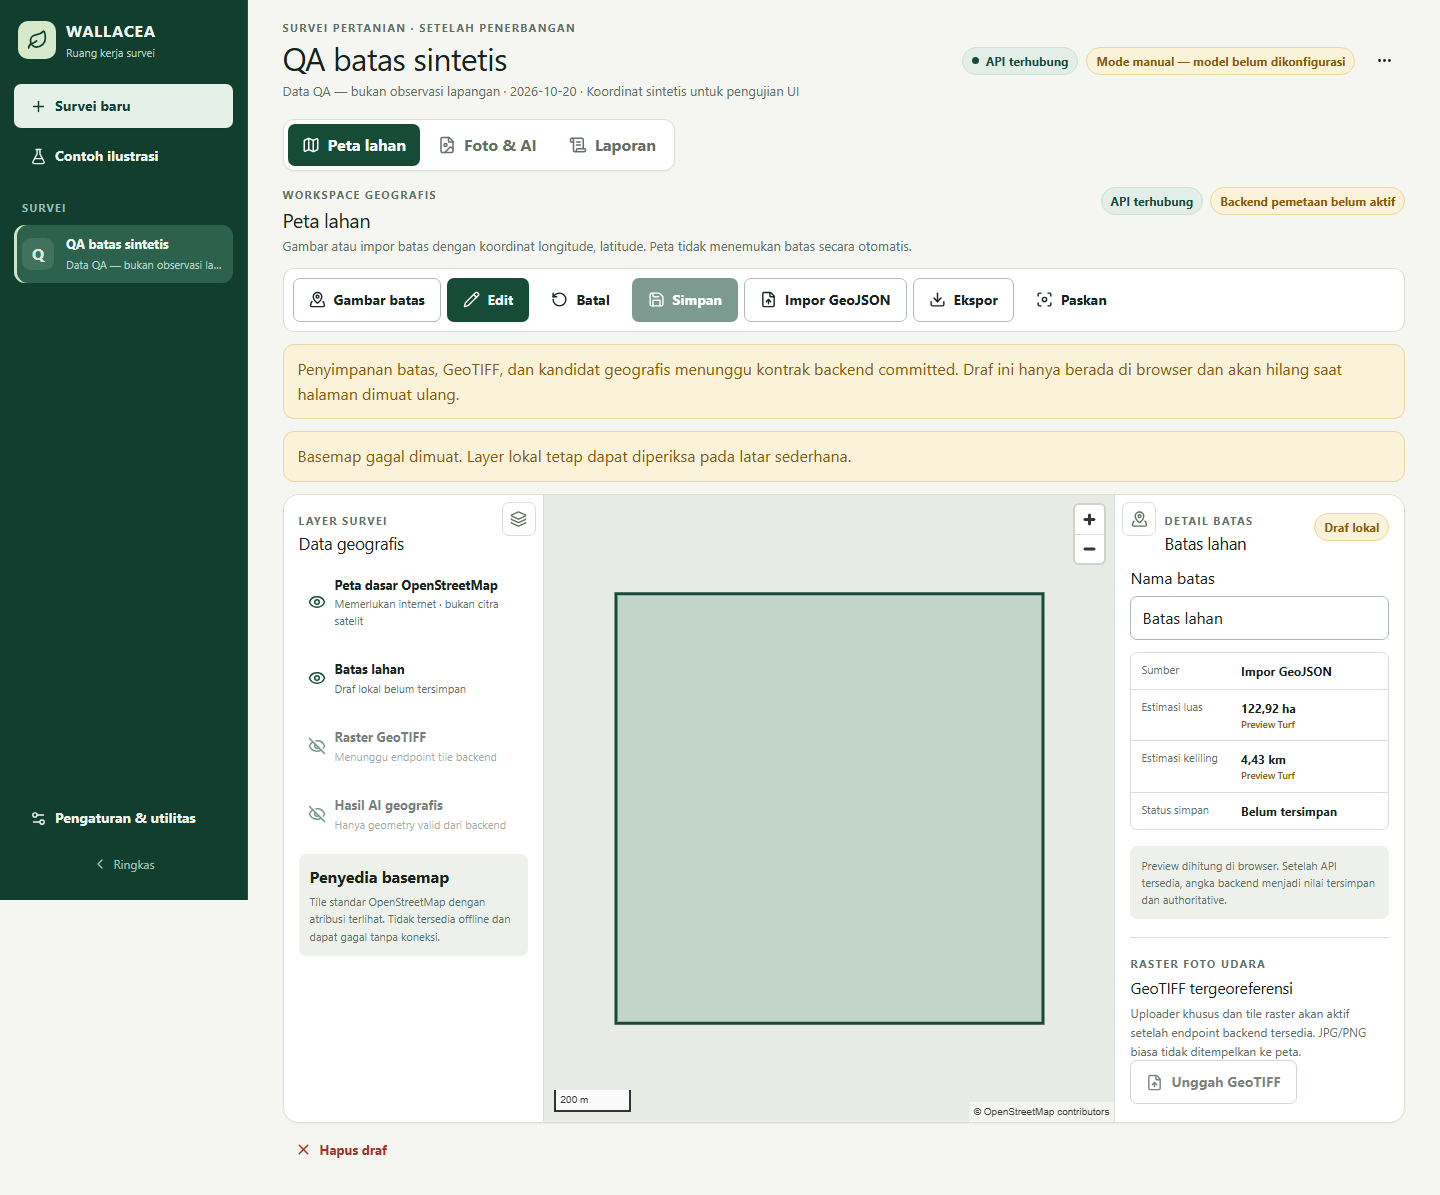
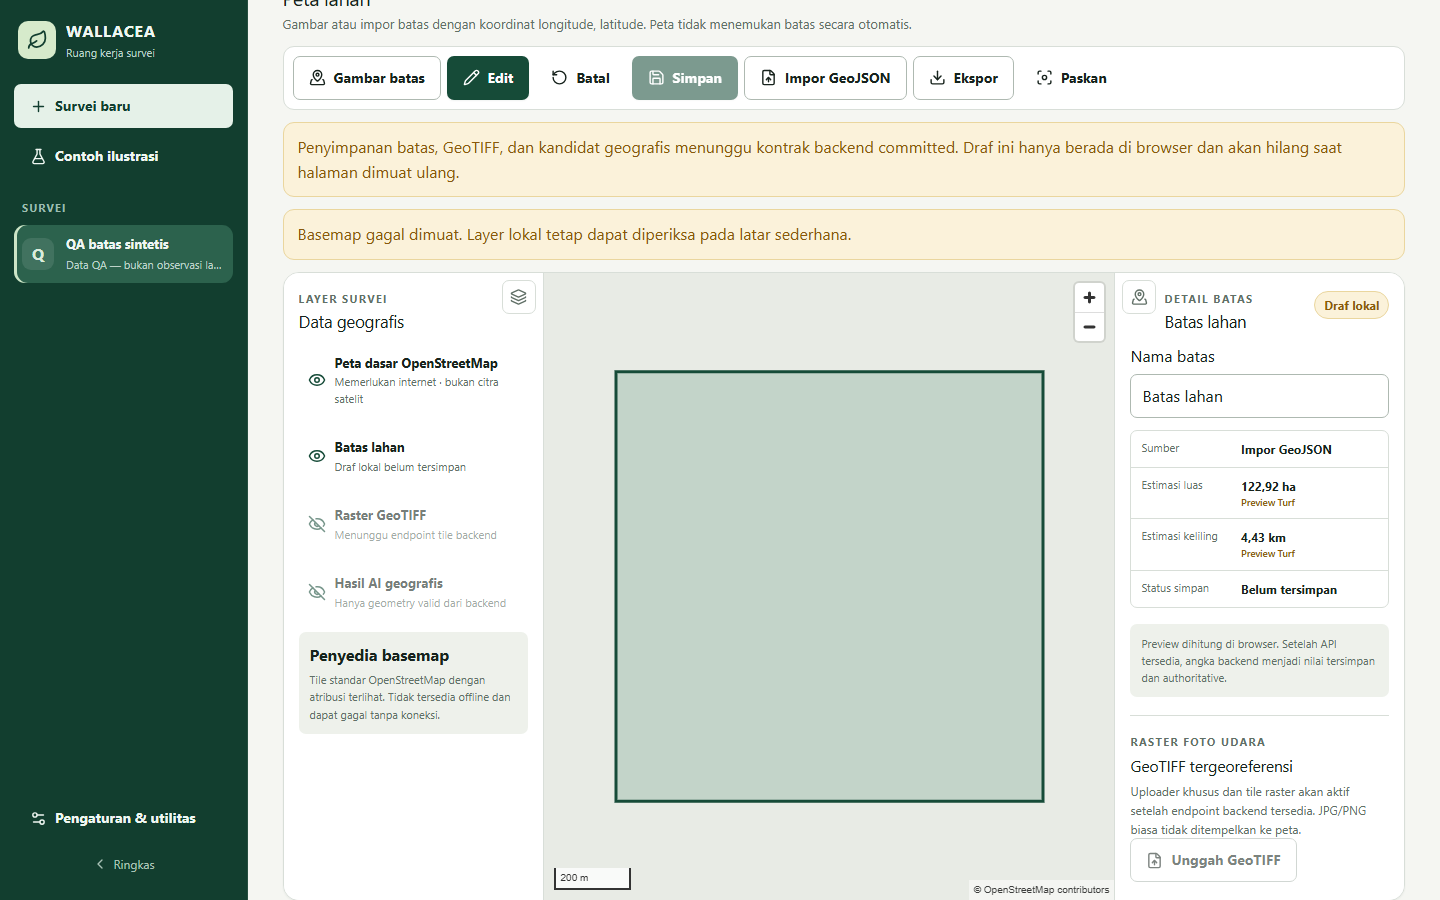
docs: hand off mapping workspace verification

diff --git a/apps/web/e2e/mapping-workspace.spec.ts b/apps/web/e2e/mapping-workspace.spec.ts
@@ -65,7 +65,8 @@ test('boundary import remains honest and responsive', async ({ page }, testInfo)
     await expect(page.getByText('Draf lokal', { exact: true }).first()).toBeVisible();
   }
 
-  await page.screenshot({ path: path.resolve('..', '..', 'docs', 'handoff', 'screenshots', 'mapping', `${testInfo.project.name}.png`), fullPage: true });
+  await page.getByTestId('land-map').scrollIntoViewIfNeeded();
+  await page.screenshot({ path: path.resolve('..', '..', 'docs', 'handoff', 'screenshots', 'mapping', `${testInfo.project.name}.png`) });
 });
 
 test('invalid latitude-longitude GeoJSON is rejected clearly', async ({ page }) => {

diff --git a/docs/handoff/codex.md b/docs/handoff/codex.md
@@ -1,4 +1,90 @@
-# Codex frontend handoff — 20 Oktober 2026
+# Codex frontend handoff — workspace pemetaan, 20 Oktober 2026
+
+## Delivery pemetaan
+
+- Branch/worktree: `agent/codex-mapping` / `D:\coding\wallacea-worktrees\codex-mapping`.
+- Base frontend: `1cb6d5183eebb458c4e341981503e0d70a164537`.
+- Commit implementasi shell peta: `472fe7563ba18b4866f8255eeab396a07ae82aed`.
+- Sumber kontrak terakhir yang sudah committed dan dibaca: Claude
+  `1ecda6c4eef476aaed84a212623c9ade9e696846`, OpenAPI revision 4.
+- Pada saat handoff ini ditulis, perubahan geospasial Claude masih belum committed.
+  Jangan mengintegrasikan file backend yang masih dirty; ambil SHA `CONTRACT_READY`
+  baru dari Claude lebih dahulu.
+- Tidak ada push, merge `main`, deploy, perubahan backend/OpenAPI, model, atau dataset.
+
+### Yang sudah tersedia
+
+- Navigasi survei eksplisit **Peta lahan / Foto & AI / Laporan**. Editor foto,
+  persistence anotasi, transformasi koordinat normalized, dan laporan existing tidak
+  diubah.
+- Workspace MapLibre dominan dengan panel layer/detail yang dapat diringkas pada
+  desktop dan Sheet pada tablet/HP.
+- Terra Draw Polygon/select untuk menggambar dan mengedit draf; impor menerima tepat
+  satu Polygon/MultiPolygon WGS84 dengan urutan longitude, latitude. GeoJSON invalid,
+  range koordinat, ring terbuka, dan jumlah feature ditolak dengan pesan Indonesia.
+- Turf menampilkan luas/keliling sebagai **Preview Turf**, bukan angka tersimpan.
+  Ekspor GeoJSON mempertahankan geometry dan menambahkan nama/sumber draf.
+- Basemap OpenStreetMap dikonfigurasi dengan atribusi terlihat dan label jelas bahwa
+  ia membutuhkan internet serta bukan citra satelit. Bila tile gagal, boundary lokal
+  tetap terlihat pada fallback netral.
+- Draft map ikut proteksi navigasi dan `beforeunload`; hapus draf memakai konfirmasi.
+- MapLibre/Terra Draw/Turf dimuat lewat lazy chunk sehingga editor foto tidak menarik
+  bundle GIS ketika workspace peta belum dibuka.
+
+### Batas kontrak yang sengaja tidak dipalsukan
+
+Revision 4 belum memiliki boundary CRUD, raster GeoTIFF, tile/bounds/CRS, atau kandidat
+AI geografis. Karena itu tombol **Simpan** dan **Unggah GeoTIFF** tetap disabled dengan
+alasan yang terlihat; draf diberi label lokal dan dinyatakan hilang saat reload. Tidak
+ada endpoint buatan, persistence palsu, proyeksi foto JPG/PNG, polygon otomatis, atau
+hasil AI geografis. Kebutuhan lengkap tercatat di
+`docs/requests/codex-mapping-contract.md` sebagai CR-FE-005.
+
+Setelah Claude memberi kontrak committed, frontend masih harus menghubungkan:
+
+1. boundary query/mutation + `If-Match`, backend metrics authoritative, conflict/reload;
+2. upload/status/tile GeoTIFF, opacity, bounds, footprint, metadata CRS;
+3. geographic findings, detail raster/run, filter pending/accepted/rejected, dan
+   accepted-only summary;
+4. capability/limit discovery granular, lalu tes API nyata untuk save/reload, edit,
+   cancel, conflict, delete, raster placement, dan review kandidat.
+
+### Verifikasi aktual pemetaan
+
+- `pnpm install --frozen-lockfile`: lulus; lockfile supply-chain check lulus.
+- Type generation dari OpenAPI committed Claude revision 4: lulus dan menghasilkan
+  tidak ada diff pada `apps/web/src/api/schema.d.ts`.
+- `pnpm typecheck:web`: lulus.
+- `pnpm --filter @wallacea/web test`: **26/26 lulus** dalam 5 file.
+- `pnpm build:web`: lulus; warning chunk MapLibre/editor >500 kB tetap tercatat.
+- `pnpm peers check`: lulus, tidak ada masalah peer dependency.
+- `git diff --check`: lulus.
+- Focused Playwright mapping: **6/6 lulus** pada Chromium 1440×900, 820×1180,
+  dan 390×844. Skenario menguji impor boundary QA sintetis, preview, UI responsif,
+  Sheet, API capability tidak tersedia, tombol save disabled, GeoJSON invalid, dan
+  tile OSM yang sengaja digagalkan. Ini tes UI/kontrak lokal, bukan integrasi backend.
+- Screenshot viewport yang diperiksa: `docs/handoff/screenshots/mapping/desktop.png`,
+  `tablet.png`, dan `mobile.png`. Desktop/tablet memperlihatkan boundary tetap terlihat
+  pada fallback ketika tile gagal; mobile memverifikasi toolbar wrap dan kanvas tanpa
+  panel permanen.
+- Tes API nyata untuk persistence/raster/geographic findings **belum dapat dijalankan**
+  karena kontrak/commit Claude belum tersedia. Tes regresi API existing tidak diklaim
+  dijalankan ulang pada delivery pemetaan ini; hasil delivery frontend sebelumnya ada
+  di bagian historis di bawah.
+
+### Urutan integrasi yang aman
+
+1. Minta SHA final Claude yang menyatakan `CONTRACT_READY` untuk mapping, lalu integrasikan
+   commit backend/migrasi/OpenAPI itu ke `integration/wallacea-mvp`.
+2. Regenerasi tipe dari snapshot tersebut dan selesaikan adapter API di branch Codex;
+   jangan memakai nama endpoint dari CR-FE-005 sebagai fakta kontrak.
+3. Cherry-pick `472fe75`, lalu commit integrasi API lanjutan dan commit handoff terbaru.
+4. Jalankan export/check kontrak, migrasi DB sementara, seluruh pytest backend, typecheck,
+   Vitest, build, peer check, dan Playwright API nyata pada tiga viewport.
+
+---
+
+## Handoff frontend AI sebelumnya
 
 ## Delivery
 
